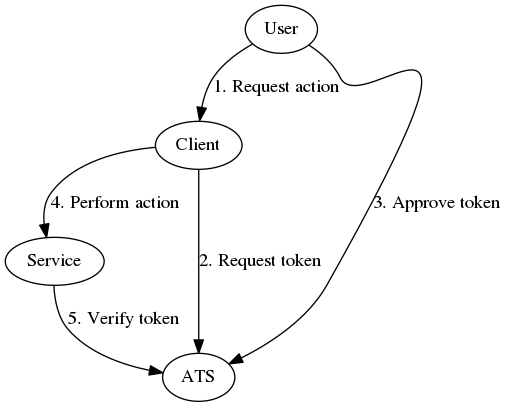
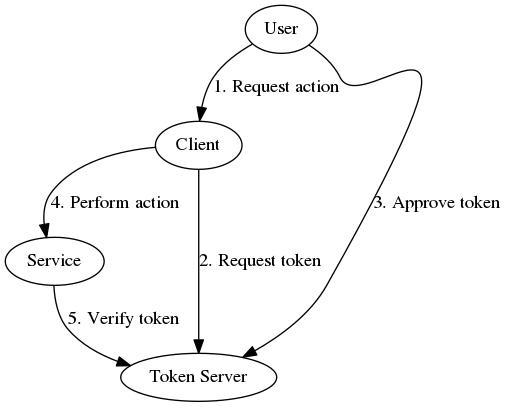
Rename in docs/

diff --git a/docs/client.md b/docs/client.md
@@ -1,8 +1,8 @@
-Anchor Token Server Clients
-===========================
+OAuth2 Server Clients
+=====================
 
-Implementing a *client* to interact with Anchor Token Server is no more complex
-than interacting with any other OAuth2-based service:
+Implementing a *client* to interact with OAuth2 Server is no more complex than
+interacting with any other OAuth2-based service:
 
 - Decide which service/s the client will interact with.
 
@@ -10,16 +10,16 @@ For each service your system will need to be configured with:
 
 1. A Service Endpoint to communicate with the service; and
 
-2. An OAuth2 Token Endpoint for the Anchor Token Server; and
+2. An OAuth2 Token Endpoint for the OAuth2 Server; and
 
-2. An OAuth2 Authorization Endpoint for the Anchor Token Server; and
+2. An OAuth2 Authorization Endpoint for the OAuth2 Server; and
 
 3. A set of OAuth2 Token Scope values to request as appropriate for the
 service; and
 
-4. A Client ID specified by the Anchor Token Server; and
+4. A Client ID specified by the OAuth2 Server; and
 
-5. A Client Secret specified by the Anchor Token Server.
+5. A Client Secret specified by the OAuth2 Server.
 
 Implementation requirements
 ---------------------------
@@ -38,12 +38,11 @@ it should:
 
 1. Use the OAuth2 Authorization Endpoint, Client ID, and OAuth2 Token Scope
 values to redirect the user to perform an [authorization code grant][s4.1] from
-the Anchor Token Server.
+the OAuth2 Server.
 
 1. When the user is redirected to the Redirection Endpoint, use the supplied
 authorization code, the OAuth2 Token Endpoint, Client ID, Client Secret, and
-Redirection Endpoint to request the approved token from the Anchor Token
-Server.
+Redirection Endpoint to request the approved token from the OAuth2 Server.
 
 Configuration format
 --------------------

diff --git a/docs/service.md b/docs/service.md
@@ -1,29 +1,29 @@
-Anchor Token Server Services
-============================
+OAuth2 Server Services
+======================
 
-Implementing a *service* to interact with Anchor Token Server is no more
-complex than interacting with any other OAuth2-based service:
+Implementing a *service* to interact with OAuth2 Server is no more complex than
+interacting with any other OAuth2-based service:
 
 Your service will need to be configured with:
 
-2. An Anchor Token Server Verify Endpoint; and
+2. An OAuth2 Server Verify Endpoint; and
 
-4. A Client ID specified by the Anchor Token Server; and
+4. A Client ID specified by the OAuth2 Server; and
 
-5. A Client Secret specified by the Anchor Token Server.
+5. A Client Secret specified by the OAuth2 Server.
 
 Verifying a token
 -----------------
 
 When a request is received without a token, the service MUST return an
 appropriate HTTP error. The error MAY include a document with a link to the
-Anchor Token Server authorize and/or token endpoints.
+OAuth2 Server authorize and/or token endpoints.
 
 When a request is received with a token, the service MUST verify the token. The
-service should use the Anchor Token Server Verify Endpoint, Client ID, and
-Client Secret to verify the token. The Anchor Token Server response will
-determine whether the token is valid, can be consumed by the service, and the
-permissions it grants.
+service should use the OAuth2 Server Verify Endpoint, Client ID, and Client
+Secret to verify the token. The OAuth2 Server response will determine whether
+the token is valid, can be consumed by the service, and the permissions it
+grants.
 
 Configuration format
 --------------------

diff --git a/docs/statistics.md b/docs/statistics.md
@@ -1,8 +1,7 @@
-Anchor Token Server Statistics
-==============================
+OAuth2 Server Statistics
+========================
 
-Anchor Token Server uses the [ekg][] package to report statistics on its
-operations.
+OAuth2 Server uses the [ekg][] package to report statistics on its operations.
 
 [ekg]: https://hackage.haskell.org/package/ekg
 
